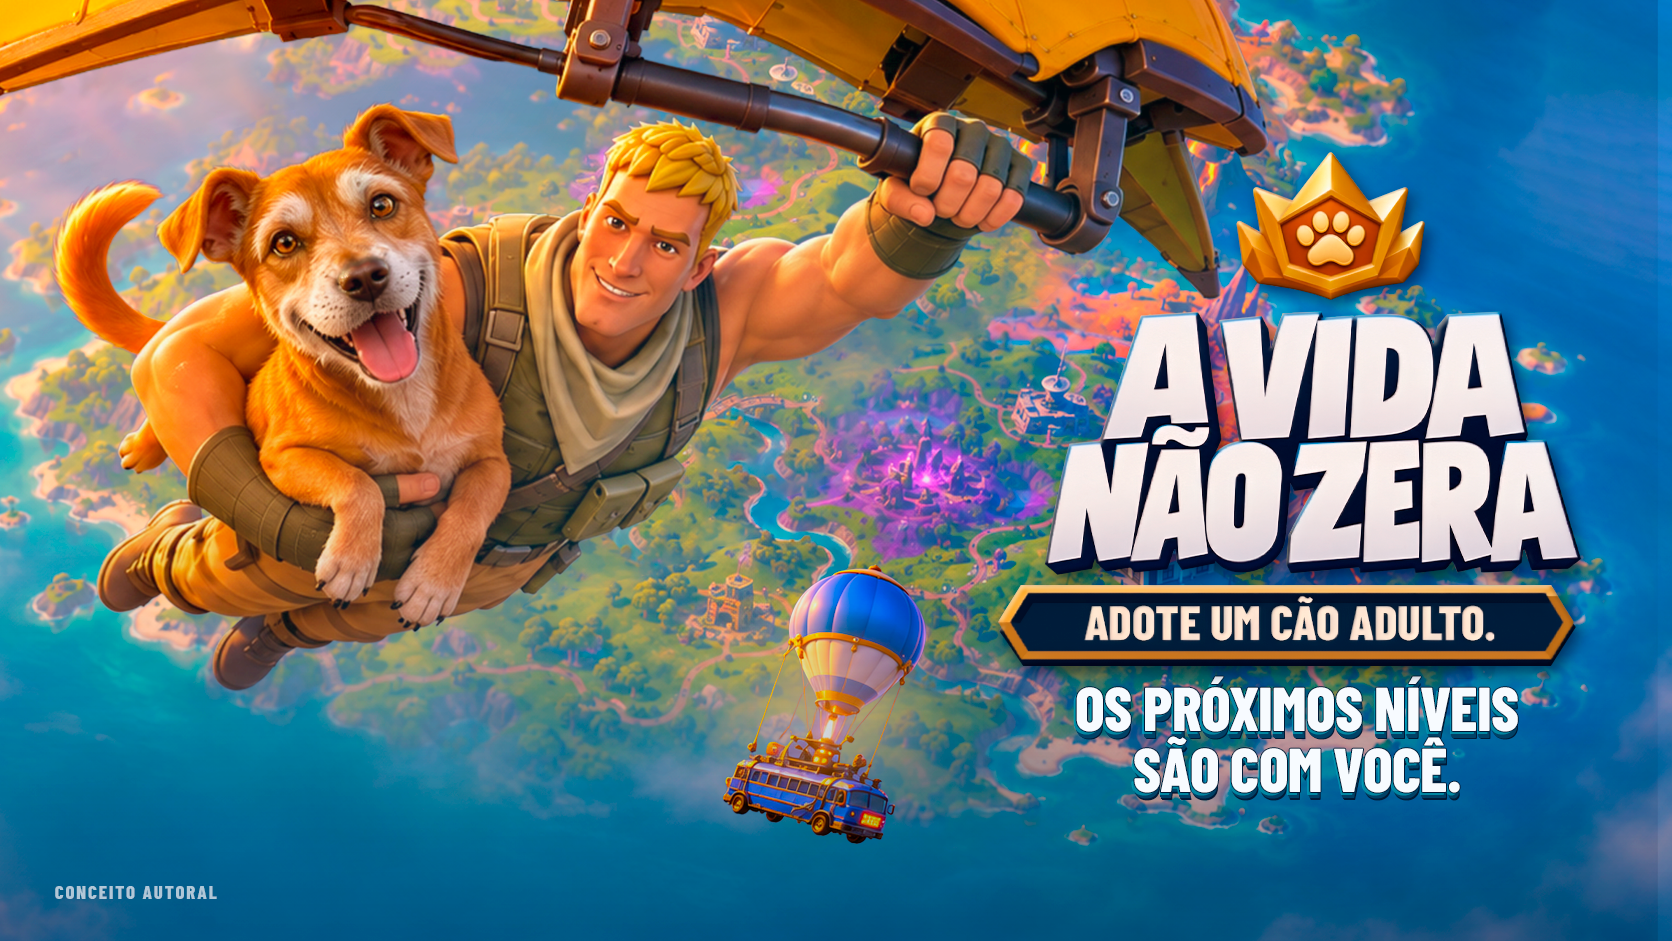
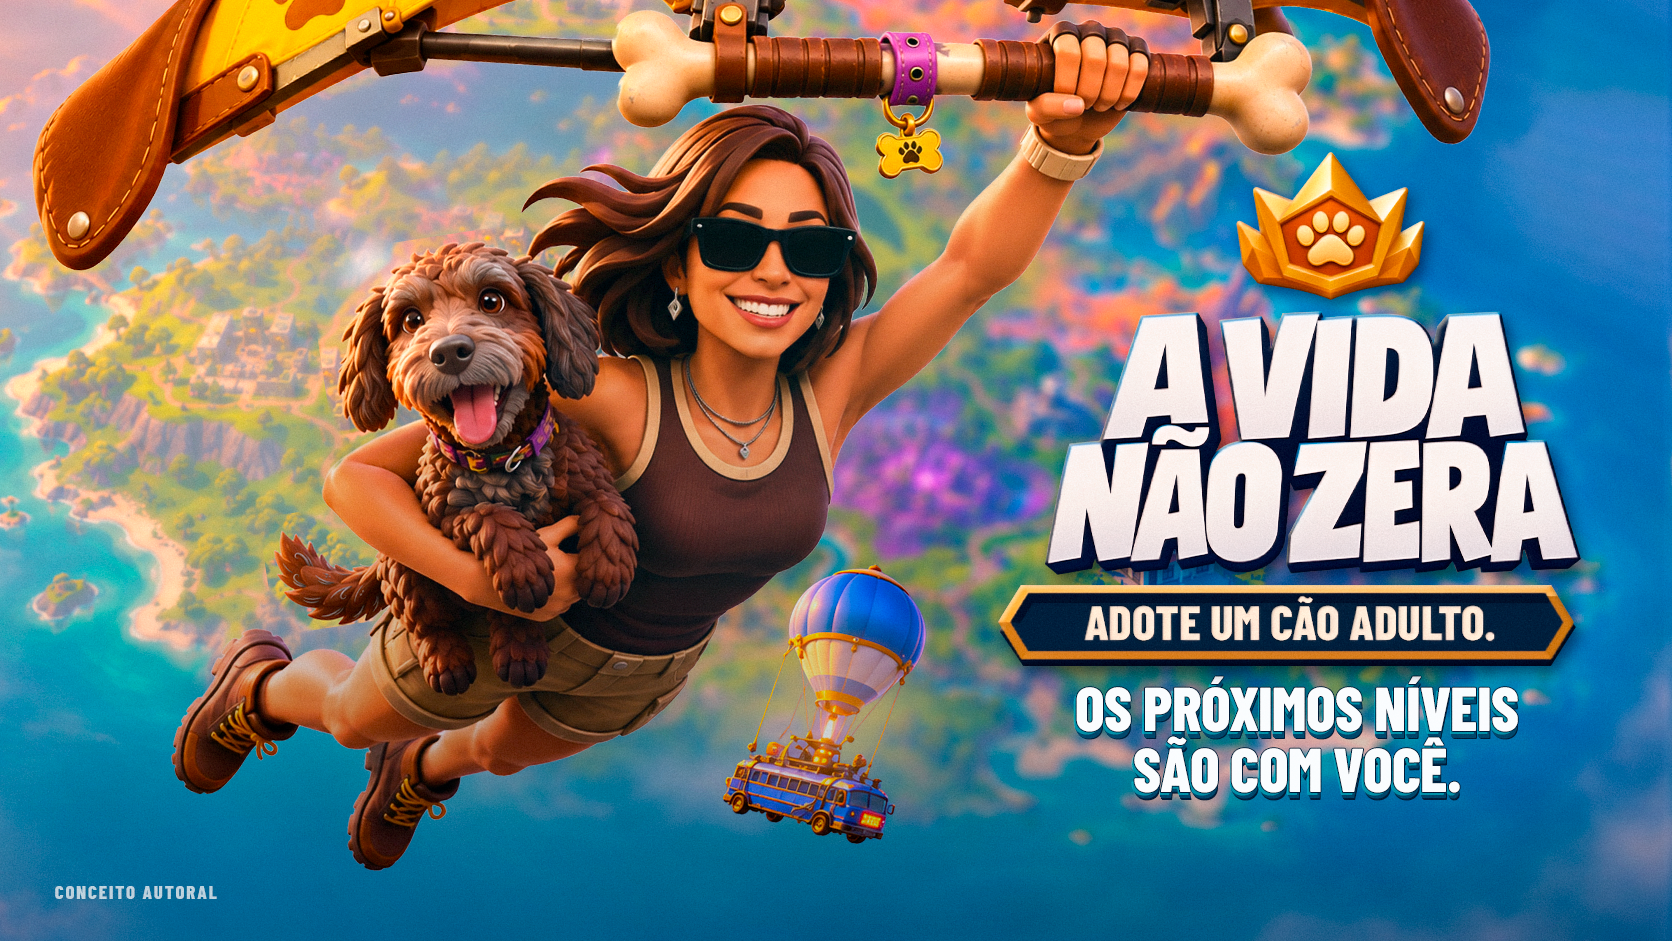
Replace A Vida Não Zera key visual with supplied original artwork

diff --git a/index.html b/index.html
@@ -55,7 +55,7 @@
 <h1 class="hero-title"><span></span><span class="stroke"></span><span class="hero-rotator"><span class="hero-word is-active">IDEIA<br>CLARA.</span><span class="hero-word">EXECUÇÃO<br>AFIADA.</span><span class="hero-word">MARCA<br>QUE FICA.</span><span class="hero-word">CAMPANHA<br>QUE CONVERSA.</span></span></h1>
 <div class="hero-bottom"><p class="hero-copy">Já criei pra marcas como Keune, Seara e Gulf Combustíveis — hoje uno direção de arte, branding e IA aplicada pra transformar briefing em campanha que se destaca. Sem enfeite. Ideia primeiro, efeito depois.</p><a class="hero-cta" href="#work">VER PROJETOS ↓</a></div>
 </section>
-<section class="section" id="work"><div class="section-head"><span>01 / PROJETOS SELECIONADOS</span><span class="muted">5 PROJETOS</span></div><div class="projects"><a class="project" href="/nubank/"><div class="visual"><img src="assets/nubank/KV-JUROS-NUBANK.png" alt="Juros-Jitsu"></div><div class="project-info"><div class="project-title">Juros-Jitsu</div><div class="project-meta">NUBANK / CONCEITO<br>2026</div></div><p class="project-desc">Conceito que cruza Nubank com jiu-jitsu: se banco grande bate, a saída é técnica — não força.</p></a><a class="project" href="/vans-rpg/"><div class="visual"><img src="assets/vans-rpg/vans-rpg-kv-1200.jpg" alt="OFF THE MAP — Vans Tabletop RPG"></div><div class="project-info"><div class="project-title">OFF THE MAP</div><div class="project-meta">VANS / CONCEITO AUTORAL<br>2026</div></div><p class="project-desc">Uma caixa de tênis Vans que vira o escudo do mestre de um RPG urbano e cyberpunk, feito para jogar na rua.</p></a><button class="project" data-id="verao"><div class="visual"><img src="assets/verao-premiado/Proposta%20de%20KV.png" alt="Verão Premiado"></div><div class="project-info"><div class="project-title">Verão Premiado</div><div class="project-meta">FEBRAFAR<br>2026</div></div><p class="project-desc">Rebranding nacional do Verão Premiado com mascote criado com IA — do KV às lives, peças de redes e marcas participantes.</p></button><button class="project project-coming" type="button" data-id="fortnite" aria-label="A Vida Não Zera — projeto em construção"><div class="visual"><img src="assets/fortnite/01_Emocao_Relight_Nativo.png" alt="A Vida Não Zera — campanha autoral de adoção de cães adultos com universo visual de Fortnite" loading="lazy"><div class="coming-overlay" aria-hidden="true"><span class="coming-label">EM CONSTRUÇÃO</span></div></div><div class="project-info"><div class="project-title">A Vida Não Zera</div><div class="project-meta">FORTNITE / CONCEITO AUTORAL<br>2026</div></div><p class="project-desc">Uma campanha conceitual que usa o universo dos games para dar uma nova chance aos cães adultos na adoção.</p></button><button class="project" data-id="keune"><div class="visual"><img src="assets/Keune/2%5BKEUNE%5D%20PE%C3%87A%20PARA%20SAL%C3%83O.jpg" alt="Keune Black Friday"></div><div class="project-info"><div class="project-title">Keune Black Friday</div><div class="project-meta">KEUNE<br>2024</div></div><p class="project-desc">Peça de campanha de Black Friday pros salões parceiros da marca.</p></button></div></section>
+<section class="section" id="work"><div class="section-head"><span>01 / PROJETOS SELECIONADOS</span><span class="muted">5 PROJETOS</span></div><div class="projects"><a class="project" href="/nubank/"><div class="visual"><img src="assets/nubank/KV-JUROS-NUBANK.png" alt="Juros-Jitsu"></div><div class="project-info"><div class="project-title">Juros-Jitsu</div><div class="project-meta">NUBANK / CONCEITO<br>2026</div></div><p class="project-desc">Conceito que cruza Nubank com jiu-jitsu: se banco grande bate, a saída é técnica — não força.</p></a><a class="project" href="/vans-rpg/"><div class="visual"><img src="assets/vans-rpg/vans-rpg-kv-1200.jpg" alt="OFF THE MAP — Vans Tabletop RPG"></div><div class="project-info"><div class="project-title">OFF THE MAP</div><div class="project-meta">VANS / CONCEITO AUTORAL<br>2026</div></div><p class="project-desc">Uma caixa de tênis Vans que vira o escudo do mestre de um RPG urbano e cyberpunk, feito para jogar na rua.</p></a><button class="project" data-id="verao"><div class="visual"><img src="assets/verao-premiado/Proposta%20de%20KV.png" alt="Verão Premiado"></div><div class="project-info"><div class="project-title">Verão Premiado</div><div class="project-meta">FEBRAFAR<br>2026</div></div><p class="project-desc">Rebranding nacional do Verão Premiado com mascote criado com IA — do KV às lives, peças de redes e marcas participantes.</p></button><button class="project project-coming" type="button" data-id="fortnite" aria-label="A Vida Não Zera — projeto em construção"><div class="visual"><img src="assets/fortnite/01_Emocao_Relight_Nativo.png?v=20261112" alt="A Vida Não Zera — campanha autoral de adoção de cães adultos com universo visual de Fortnite" loading="lazy"><div class="coming-overlay" aria-hidden="true"><span class="coming-label">EM CONSTRUÇÃO</span></div></div><div class="project-info"><div class="project-title">A Vida Não Zera</div><div class="project-meta">FORTNITE / CONCEITO AUTORAL<br>2026</div></div><p class="project-desc">Uma campanha conceitual que usa o universo dos games para dar uma nova chance aos cães adultos na adoção.</p></button><button class="project" data-id="keune"><div class="visual"><img src="assets/Keune/2%5BKEUNE%5D%20PE%C3%87A%20PARA%20SAL%C3%83O.jpg" alt="Keune Black Friday"></div><div class="project-info"><div class="project-title">Keune Black Friday</div><div class="project-meta">KEUNE<br>2024</div></div><p class="project-desc">Peça de campanha de Black Friday pros salões parceiros da marca.</p></button></div></section>
 <section class="section about" id="about"><div class="section-head"><span>02 / SOBRE MIM</span><span class="muted">RENAN DAMAZIO</span></div><div class="about-teaser"><h2>BOAS IDEIAS PRIMEIRO.<br>EXECUÇÃO LOGO DEPOIS.</h2><div><p>Designer e diretor de arte em São Paulo. Conheça minha trajetória, formação e jeito de trabalhar.</p><a href="/sobre/">CONHEÇA MAIS SOBRE MIM ↗</a></div></div></section>
 <section class="section contact" id="contact"><div class="section-head"><span>03 / CONTATO</span><span class="muted">DISPONÍVEL PARA NOVOS PROJETOS</span></div><div class="contact-body"><h2>TEM UM BRIEFING?<br>BORA CONVERSAR.</h2><div class="contact-links"><a href="https://wa.me/5511994064761" target="_blank">WHATSAPP ↗</a><a href="https://www.linkedin.com/in/reenandamazio/" target="_blank">LINKEDIN ↗</a><a href="https://www.instagram.com/nan.damazio/" target="_blank">INSTAGRAM ↗</a></div></div></section>
 </main>
